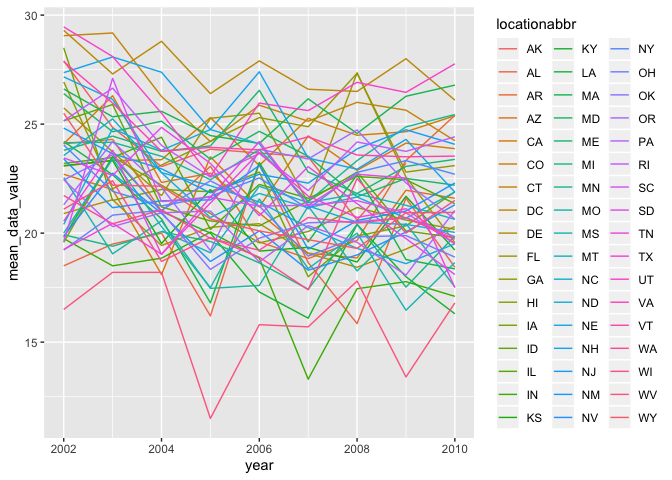
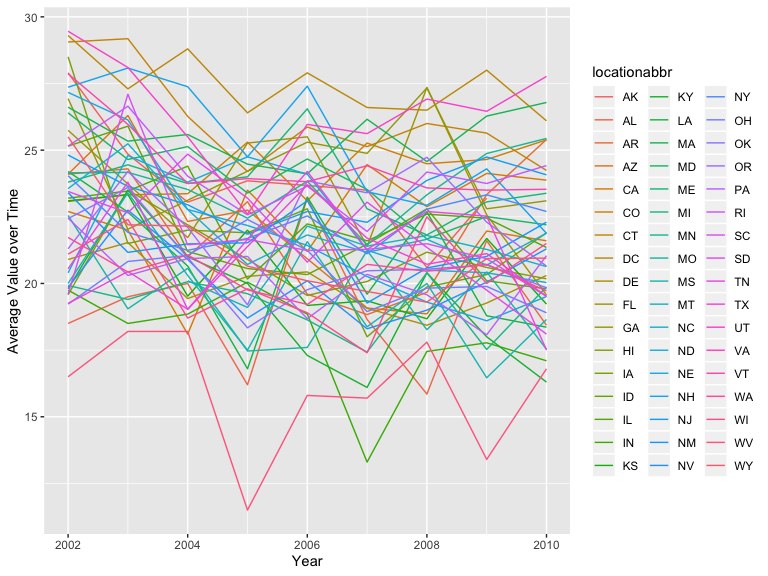
Final commit prior to submission

diff --git a/p8105_hw3_stl2137.md b/p8105_hw3_stl2137.md
@@ -43,11 +43,11 @@ instacart %>%
   theme(axis.text.x = element_text(angle = 90, hjust = 1))
 ```
 
-![](p8105_hw3_stl2137_files/figure-gfm/unnamed-chunk-2-1.png)<!-- --> \*
-Fresh fruits and fresh vegetables are ordered much more frequently than
-the rest of the products customers can order via Instacart. Packaged
-vegetables fruit are the 3rd most ordered product, and yogurt is the 4th
-most ordered
+<img src="p8105_hw3_stl2137_files/figure-gfm/unnamed-chunk-2-1.png" width="90%" />
+\* Fresh fruits and fresh vegetables are ordered much more frequently
+than the rest of the products customers can order via Instacart.
+Packaged vegetables fruit are the 3rd most ordered product, and yogurt
+is the 4th most ordered
 product.
 
 ### Table showing the three most popular items in the aisles “baking ingredients”, “dog food care”, and “packaged vegetables fruits”
@@ -161,7 +161,7 @@ each):
 ### In 2002, which states were observed at 7 or more locations? What about in 2010?
 
 ``` r
-brfss_clean %>% 
+brfss_2002 <- brfss_clean %>% 
   filter(year %in% 2002) %>% 
   group_by(locationabbr) %>% 
   summarise(
@@ -170,20 +170,8 @@ brfss_clean %>%
   filter(
     count >= 7
   )
-```
 
-    ## # A tibble: 6 x 2
-    ##   locationabbr count
-    ##   <chr>        <int>
-    ## 1 CT               7
-    ## 2 FL               7
-    ## 3 MA               8
-    ## 4 NC               7
-    ## 5 NJ               8
-    ## 6 PA              10
-
-``` r
-brfss_clean %>% 
+brfss_2010 <- brfss_clean %>% 
   filter(year %in% 2010) %>% 
   group_by(locationabbr) %>% 
   summarise(
@@ -194,32 +182,17 @@ brfss_clean %>%
   )
 ```
 
-    ## # A tibble: 14 x 2
-    ##    locationabbr count
-    ##    <chr>        <int>
-    ##  1 CA              12
-    ##  2 CO               7
-    ##  3 FL              41
-    ##  4 MA               9
-    ##  5 MD              12
-    ##  6 NC              12
-    ##  7 NE              10
-    ##  8 NJ              19
-    ##  9 NY               9
-    ## 10 OH               8
-    ## 11 PA               7
-    ## 12 SC               7
-    ## 13 TX              16
-    ## 14 WA              10
+  - In 2002, the following 6 states were observed at 7 or more
+    locations: Connecticut (CT), Florida (FL), Massachusetts (MA), North
+    Carolina (NC), New Jersey (NJ), and Pennsylvania (PA).
 
-In 2002, the following 6 states were observed at 7 or more locations:
+  - In 2010, the following 14 states were observed at 7 or more
+    locations: California (CA), Colorado (CO), Florida (FL),
+    Massachusetts (MA), Maryland (MD), North Carolina (NC), Nebraska
+    (NE), New Jersey (NJ), New York (NY), Ohio (OH), Pennsylvania (PA),
+    South Carolina (SC), Texas (TX), and Washington (WA).
 
-Construct a dataset that is limited to Excellent responses, and
-contains, year, state, and a variable that averages the data\_value
-across locations within a state. Make a “spaghetti” plot of this average
-value over time within a state (that is, make a plot showing a line for
-each state across years – the geom\_line geometry and group aesthetic
-will help).
+### Spaghetti Plot
 
 ``` r
 brfss_excellent <- brfss_clean %>%
@@ -231,14 +204,19 @@ brfss_excellent <- brfss_clean %>%
   select(year, locationabbr, mean_data_value)
   
 ggplot(brfss_excellent, aes(x = year, y = mean_data_value, group = locationabbr, color = locationabbr)) +
-  geom_line() 
+  geom_line() +
+  labs(
+    x = "Year",
+    y = "Average Value over Time"
+  )
 ```
 
-![](p8105_hw3_stl2137_files/figure-gfm/unnamed-chunk-7-1.png)<!-- -->
+<img src="p8105_hw3_stl2137_files/figure-gfm/unnamed-chunk-7-1.png" width="90%" />
+\* This spaghetti plot is difficult to read, as there are 50 lines for
+each of the 50
+states.
 
-Make a two-panel plot showing, for the years 2006, and 2010,
-distribution of data\_value for responses (“Poor” to “Excellent”) among
-locations in NY State
+### Two-panel Plot showing, for the years 2006, and 2010, distribution of data\_value for responses (“Poor” to “Excellent”) among locations in NY State
 
 ``` r
 brfss_ny <- brfss_clean %>% 
@@ -248,12 +226,20 @@ brfss_ny <- brfss_clean %>%
 
 ggplot(brfss_ny, aes(x = response, y = data_value, group = interaction(response, locationdesc), fill = locationdesc)) +
   geom_col(position = "dodge") + 
-  theme(legend.position = "bottom") +
+  theme(legend.position = "bottom", axis.text.x = element_text(angle = 90, hjust = 1)) +
+  labs(
+    x = "Location by County",
+    y = "Data Value",
+    title = "Distribution of Data Value from Poor to Excellent"
+  ) +
   facet_grid(.~year) +
-  scale_fill_viridis(discrete = TRUE)
+  scale_fill_viridis(discrete = TRUE) 
 ```
 
-![](p8105_hw3_stl2137_files/figure-gfm/unnamed-chunk-8-1.png)<!-- -->
+<img src="p8105_hw3_stl2137_files/figure-gfm/unnamed-chunk-8-1.png" width="90%" />
+\* More locations were added in additional New York counties in 2010.
+There also appear to have more “very good” reviews in 2010 compared to
+2006 across all New York Counties.
 
 ## Problem 3
 
@@ -268,6 +254,12 @@ accel_data <- read_csv("./hw3_data/accel_data.csv")
     ## )
 
     ## See spec(...) for full column specifications.
+
+There are 35 observations and 1443 variables. Each row observation
+represents a new day. The variables in the dataset include `week`,
+`day_id` (each day has a unique day\_id), `day` (representing day of the
+week), and `activity.1:activity.1440` (representing each minute of the
+day).
 
 ``` r
 accel_data_clean <- accel_data %>% 
@@ -288,9 +280,7 @@ accel_data_clean <- accel_data %>%
   )
 ```
 
-Using your tidied dataset, aggregate accross minutes to create a total
-activity variable for each day, and create a table showing these totals.
-Are any trends apparent?
+### Create Table Showing Day Activity Total
 
 ``` r
 total_activity_table <- accel_data_clean %>% 
@@ -301,10 +291,10 @@ total_activity_table <- accel_data_clean %>%
   )
 ```
 
-Make a single-panel plot that shows the 24-hour activity time courses
-for each day and use color to indicate day of the week. Describe in
-words any patterns or conclusions you can make based on this
-graph.
+  - Looking at the table alone, there are no apparent
+trends.
+
+### Single-panel plot that shows the 24-hour activity time courses for each day Describe in words any patterns or conclusions you can make based on this graph.
 
 ``` r
 ggplot(accel_data_clean, aes(x = hour, y = activity_value, group = day_id, color = day)) +
@@ -312,4 +302,10 @@ ggplot(accel_data_clean, aes(x = hour, y = activity_value, group = day_id, color
   theme(legend.position = "bottom")
 ```
 
-![](p8105_hw3_stl2137_files/figure-gfm/unnamed-chunk-11-1.png)<!-- -->
+<img src="p8105_hw3_stl2137_files/figure-gfm/unnamed-chunk-12-1.png" width="90%" />
+\* The patient appears to be more active from the 8 PM to midnight hours
+during the duration of the study. The patient is consistenly inactive
+from midnight to 5 AM. Between the hours of 5 AM to 5 PM, there are
+multiple spikes; on Sunday the patient appears to be most active from 10
+AM to noon, and on Saturday, the patients appears to be more active from
+4 PM to 5 PM.
